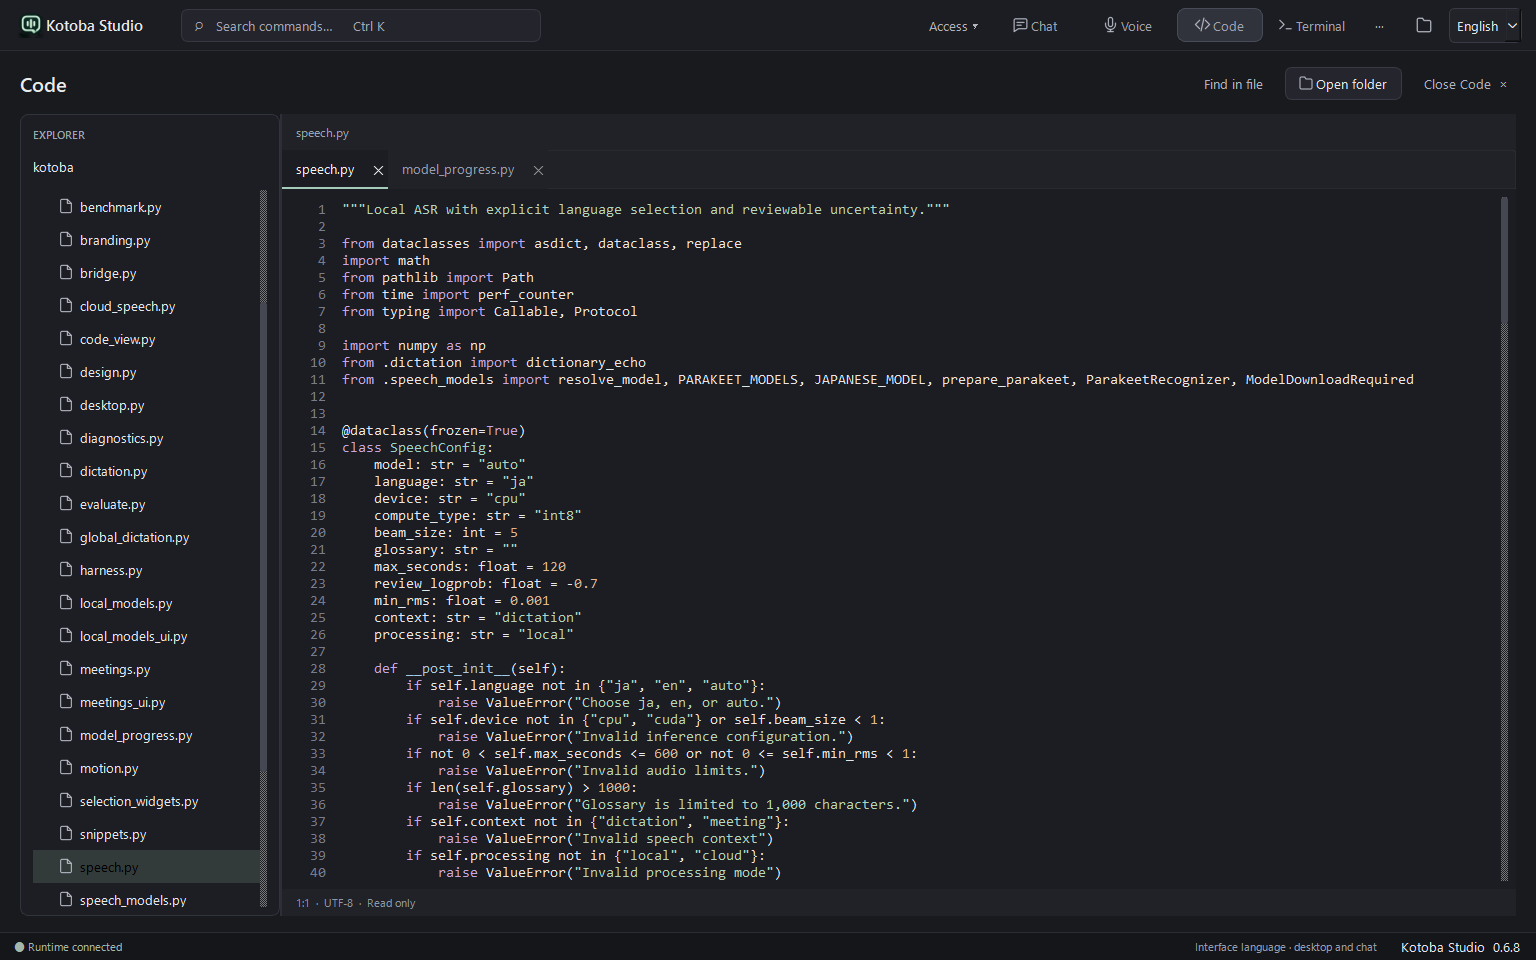
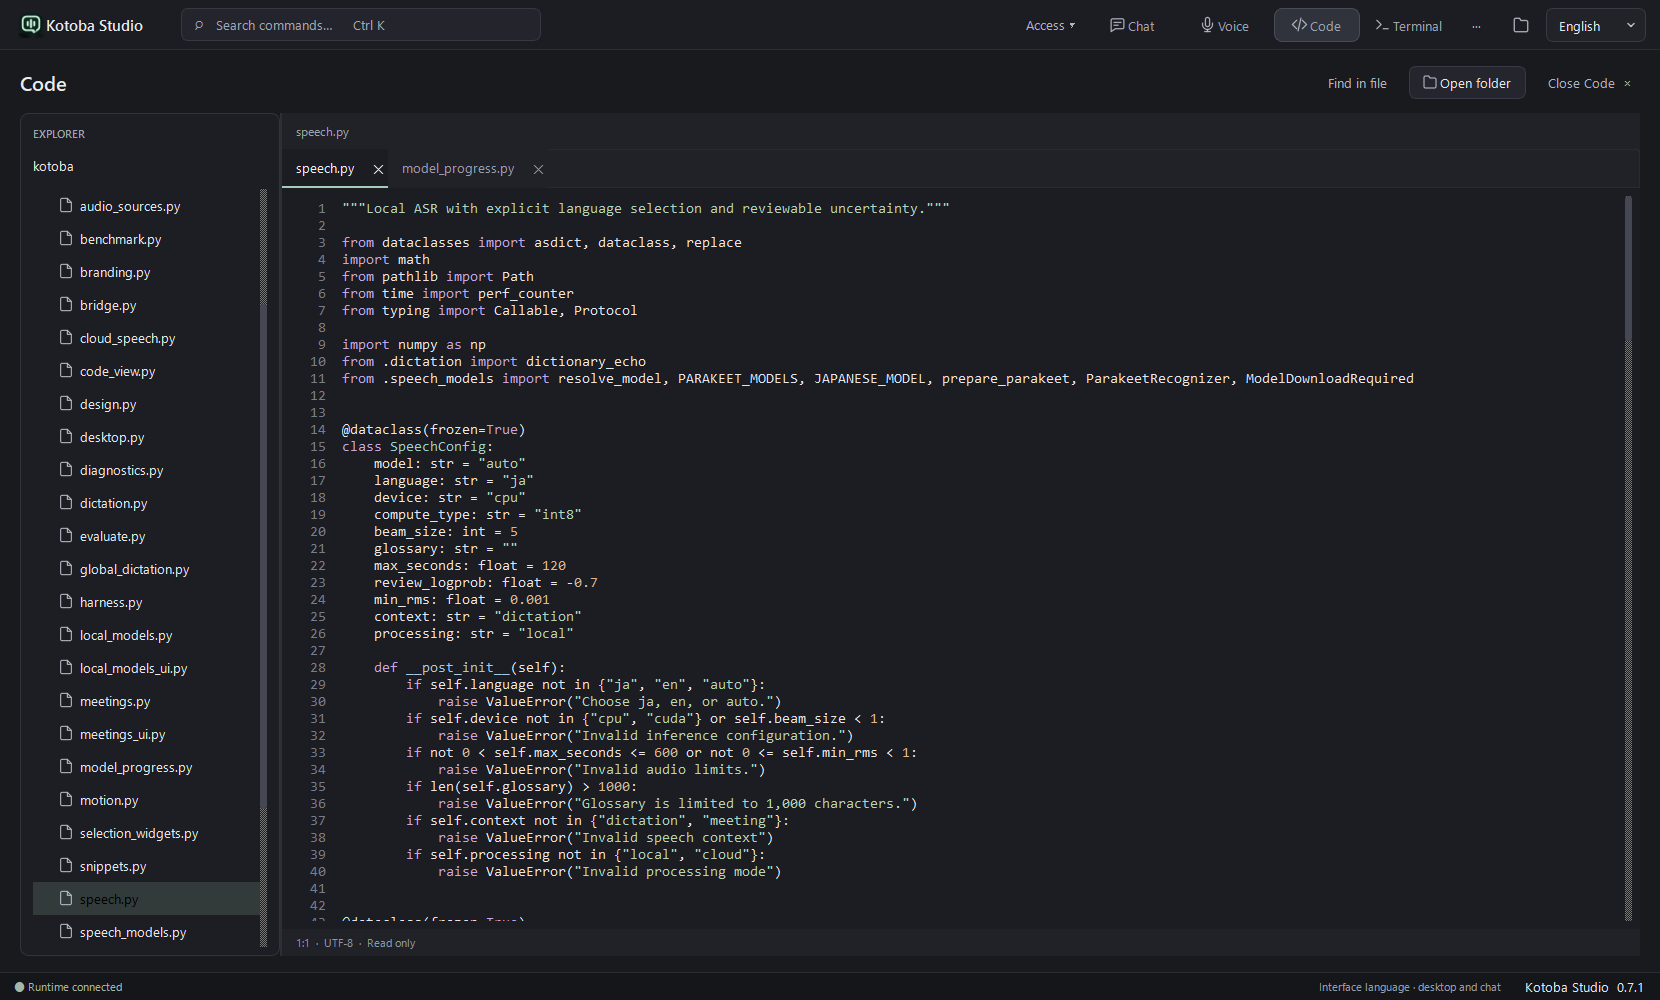
docs: refresh screenshots and expand the Japanese README guide (#21)

diff --git a/README.md b/README.md
@@ -4,11 +4,15 @@
 
 **Speak naturally. Review clearly. Build with AI.**
 
-English |　日本語
+Windows x64 · 0.7.1
+
+[English](#english) · [日本語](#japanese)
 
 A Windows desktop workspace for Japanese and English voice input, AI conversations, and development. Capture an idea from your microphone or an application, turn it into an editable instruction, and work with an agent using local models or cloud APIs.
 
 [Get started](#run) · [Voice and local models](python/voice/README.md) · [Windows packaging](python/voice/WINDOWS.md) · [日本語](#japanese)
+
+<a id="english"></a>
 
 ## One workspace, from voice to action
 
@@ -26,21 +30,25 @@ The desktop combines persistent chat, a voice dock, a file explorer, a code view
 | Repeatable dictation | Global Windows hotkey, paste at cursor, saved phrases, undo, and reviewed agent drafts |
 | Measurable results | Transcription latency, real-time factor, Japanese character error rate, and English word error rate against a supplied reference |
 
+These screenshots show the running 0.7.1 app. Chat and voice drafts are manually entered, unsent examples, not transcription results or generated responses.
+
 ### Multiple agents, independent conversations
 
 Use **+ New agent** or **Ctrl+T** to open another retained chat. Choose its provider and model in its own composer: OpenAI, Claude, Kimi, DeepSeek, and local routes can work in parallel. The left-hand chat list keeps one conversation visible at a time. Select a chat to make it the destination for reviewed voice input. Rows show the model, running activity, and background completion, with the full provider/model in the tooltip. Double-click a row to name the task. **Ctrl+Tab** and **Ctrl+Shift+Tab** switch chats. Closing a view leaves saved sessions and running agents on the host; confirm before discarding a view with an unsent draft. Separate browser storage preserves each open view's session selection across restarts. Agents sharing a workspace can edit the same files; use separate folders for conflicting work.
+
+![Kotoba Studio 0.7.1 with independent agents in the left sidebar](assets/screenshots/agents-workspace-en.png)
 
 ### Chat and voice, side by side
 
 Review a voice draft alongside your agent workspace. This screenshot shows an example draft in the review field; it has not been sent to a provider.
 
-![Kotoba Studio 0.6.8 with English chat and the voice review panel](assets/screenshots/voice-workspace-en.png)
+![Kotoba Studio 0.7.1 with English chat and the voice review panel](assets/screenshots/voice-workspace-en.png)
 
 ### A clearer view of your code
 
 Browse files, compare tabs, and search when you need it. Click **Code** again, use **Close Code**, or press **Esc** to return to chat without losing your open tabs.
 
-![Kotoba Studio 0.6.8 Code workspace with Explorer, source tabs, and Close Code](assets/screenshots/code-workspace-en.png)
+![Kotoba Studio 0.7.1 Code workspace with Explorer, source tabs, and Close Code](assets/screenshots/code-workspace-en.png)
 
 <a id="run"></a>
 
@@ -57,6 +65,7 @@ Voice Studio also offers a separate agent session through **Agent → Ask voice 
 
 | Shortcut | Action |
 | --- | --- |
+| `Ctrl+T` / `Ctrl+Tab` | New agent / switch chats |
 | `Ctrl+K` | Search workspace commands |
 | `Ctrl+Shift+V` | Show or hide Voice Studio |
 | `Ctrl+J` | Show or hide the terminal |
@@ -67,20 +76,6 @@ Voice Studio also offers a separate agent session through **Agent → Ask voice 
 | `Ctrl+Shift+Space` | Start or stop recording |
 
 Close the window to keep Kotoba in the system tray; use its menu to reopen or quit. See [tray behavior and icons](python/voice/README.md#system-tray-and-windows-icons).
-
-<a id="japanese"></a>
-
-## 日本語で使う
-
-Kotoba Studio は、日本語・英語の音声入力から AI との作業へつなぐ Windows アプリです。右上の **English / 日本語** で、デスクトップと主要なチャット操作の表示言語を切り替えられます。会話本文やコードは翻訳しません。
-
-音声スタジオで録音元と言語を選び、録音または音声ファイルの読み込みを行います。文字起こしの名前・数字・意図を確認し、必要に応じて修正してください。**チャットに追加** で会話の下書きに追加します。入力欄が未準備の場合はコピーします。確認してから送信してください。
-
-**ローカルモデル** では GGUF ファイルを同梱の CPU エンジンで実行できます。Ollama / LM Studio への接続も可能です。モデルの重みは別途必要です。登録後、チャットのモデル選択で **Kotoba Local** を選びます。再起動後はローカルエンジンを起動し直してください。
-
-![Kotoba Studio 0.6.8 の日本語インターフェースと音声レビュー](assets/screenshots/voice-workspace-ja.png)
-
-上の画像は、送信前に確認するための入力例です。
 
 ## Dictation and meeting notes
 
@@ -111,3 +106,66 @@ For the underlying agent system, see [architecture](docs/architecture.md), [deve
 Kotoba Studio builds on the actual [DeepSeek Harness](https://github.com/deepseek-ai/deepseek-harness) runtime and plugin architecture. Audio capture and saved-phrase integration draw from [OpenWhispr](https://github.com/OpenWhispr/openwhispr); native local inference uses [llama.cpp](https://github.com/ggml-org/llama.cpp). Upstream identifiers remain where needed for compatibility, provider selection, and attribution.
 
 [MIT license](LICENSE) · [Third-party notices](THIRD_PARTY_NOTICES.md) · [Bundled licenses](python/voice/THIRD_PARTY_LICENSES)
+
+---
+
+<a id="japanese"></a>
+
+## 日本語 — 声から、開発へ。
+
+Kotoba Studio は、日本語と英語の音声入力、AI エージェント、開発作業を一つにまとめた Windows デスクトップアプリです。ローカルモデルやクラウド API を選び、複数のエージェントを独立したチャットで動かせます。音声で伝えた内容は、送信前に確認・編集できます。
+
+### 複数のエージェントを、左の一覧で管理
+
+左側の一覧から、作業したいチャットを選びます。チャットごとに下書きとモデルを管理し、別のエージェントはバックグラウンドで実行を続けられます。実行中・完了の状態も一覧で確認できます。
+
+**＋ 新しいエージェント** または **Ctrl+T** でチャットを追加し、ワークスペースとモデルを選択してください。検索、名前のダブルクリックによる変更、**Ctrl+Tab** での切り替えに対応しています。**履歴とワークスペース** から保存済みの会話を開き、**エージェントに戻る** で一覧に戻れます。同じファイルへの編集が競合しそうな場合は、作業フォルダーを分けてください。
+
+![Kotoba Studio 0.7.1：日本語のエージェント一覧と送信前の下書き](assets/screenshots/agents-workspace-ja.png)
+
+### 音声を確認して、次のアクションへ
+
+**音声** を開き、マイク、システム音声、アプリの音声、または音声ファイルを選びます。ローカルで文字起こしを行う前に、**音声設定 → モデルを準備** でモデルをダウンロードしてください。英語は NVIDIA Parakeet、日本語は Kotoba-Whisper が初期設定です。ほかの Whisper モデルも選べます。
+
+名前・数字・意図を確認して修正し、**チャットに追加** で選択中の会話の下書きに入れます。内容を確認してから送信してください。デスクトップ音声入力を有効にすると、**Ctrl+Shift+Space** でカーソル位置に入力できます。会議とノートの機能では、時刻付きの文字起こし、重要箇所、検索できるメモを残せます。詳しくは[音声ワークフロー](python/voice/VOICE.md)をご覧ください。
+
+![Kotoba Studio 0.7.1：日本語の音声スタジオと会議後のタスク整理の入力例](assets/screenshots/voice-workspace-ja.png)
+
+### コードとツールを、同じアプリで
+
+ファイル一覧、ソースコードのタブ、検索、PowerShell ターミナルを利用できます。**コード** を再度クリックするか、**コードを閉じる** または **Esc** で会話に戻れます。Harness のツール、権限、スキル、ワークフロー、サブエージェント、Cordis プラグインも利用できます。
+
+![Kotoba Studio 0.7.1：日本語のコード画面と Python ソースのタブ](assets/screenshots/code-workspace-ja.png)
+
+画像は 0.7.1 の実際のアプリ画面です。チャットと音声欄の文章は手入力した未送信の例であり、文字起こし結果や AI の生成結果ではありません。
+
+### Windows で始める
+
+現在のデスクトップ版は **0.7.1**、Windows x64 向けの未署名の開発者プレビューです。[Windows パッケージ作成ガイド](python/voice/WINDOWS.md)に従って `Kotoba-Studio-0.7.1-Setup.exe` を作成できます。インストーラーには、デスクトップアプリ、エージェントの実行環境、音声キャプチャー、CPU 推論エンジンが含まれます。モデルの重みは別途ダウンロードするか、手元のファイルを登録してください。
+
+1. **作業フォルダーを選ぶ。** エージェントが作業するフォルダーを指定します。
+2. **モデルを接続する。** **··· → 接続** で OpenAI、Anthropic Claude、Kimi、DeepSeek、またはカスタムの接続先を設定します。ローカルで使う場合は **ローカル AI** で GGUF モデルを登録してエンジンを起動し、会話の入力欄で **Kotoba Local** を選びます。Ollama と LM Studio にも接続できます。
+3. **会話または音声入力を始める。** チャットごとにモデルを選びます。ローカル録音の前に音声モデルを準備し、文字起こしを確認してから送信してください。
+
+| ショートカット | 操作 |
+| --- | --- |
+| `Ctrl+T` / `Ctrl+Tab` | エージェントを追加 / チャットを切り替え |
+| `Ctrl+K` | コマンドを検索 |
+| `Ctrl+Shift+V` | 音声スタジオを表示・非表示 |
+| `Ctrl+Shift+E` / `Ctrl+J` | コード / ターミナルを表示・非表示 |
+| `Ctrl+F` / `Ctrl+W` | コード内を検索 / ソースのタブを閉じる |
+| `Ctrl+Shift+Space` | 録音を開始・停止 |
+
+ウィンドウを閉じると、Kotoba はシステムトレイで動作を続けます。トレイのメニューから再表示・終了できます。更新をインストールする前に終了してください。アプリの再起動後は、ローカルエンジンを起動し直す必要があります。右上の **English / 日本語** は表示言語の切り替えです。会話本文やコードは翻訳しません。
+
+### ローカル処理と、利用上の制約
+
+音声処理はローカルモードで起動します。クラウドでの文字起こしは明示的に選ぶ設定で、クラウドのプロバイダーには送信した内容が渡ります。GGUF モデルは同梱の llama.cpp CPU エンジンで実行し、Ollama と LM Studio はループバック接続に対応します。ローカル処理の失敗時に、クラウドへ自動で切り替えることはありません。エージェントのツールは権限に応じてネットワークを利用できます。
+
+ノート、文字起こし、保存したフレーズ、会話履歴はローカルに暗号化せず保存されます。精度は音声、ハードウェア、タスクによって変わります。日本語の CER・英語の WER は、人が確認した参照文で評価してください。自動字幕を正解として扱わないでください。話者分離、ストリーミング中の割り込み、アプリが管理する GPU 推論、GGUF の自動ダウンロードは未実装です。日本語訳がない拡張機能は英語で表示されます。[デスクトップガイド](python/voice/README.md)と[アクセス権限の説明](SAFETY.md)も参照してください。
+
+### 開発・拡張・貢献
+
+[デスクトップ開発](python/voice/README.md#development)、[アーキテクチャ](docs/architecture.md)、[貢献ガイド](CONTRIBUTING.md)から始められます。Kotoba は [DeepSeek Harness](https://github.com/deepseek-ai/deepseek-harness) の実際の実行環境とプラグイン機構を基盤とし、[OpenWhispr](https://github.com/OpenWhispr/openwhispr) の音声キャプチャー・音声入力の実装を取り入れています。ローカル推論には [llama.cpp](https://github.com/ggml-org/llama.cpp) を使用しています。詳しくは[統合内容の調査](python/voice/INSPECTION.md)をご覧ください。
+
+[MIT ライセンス](LICENSE) · [第三者ライセンス表記](THIRD_PARTY_NOTICES.md) · [同梱ライセンス](python/voice/THIRD_PARTY_LICENSES)
